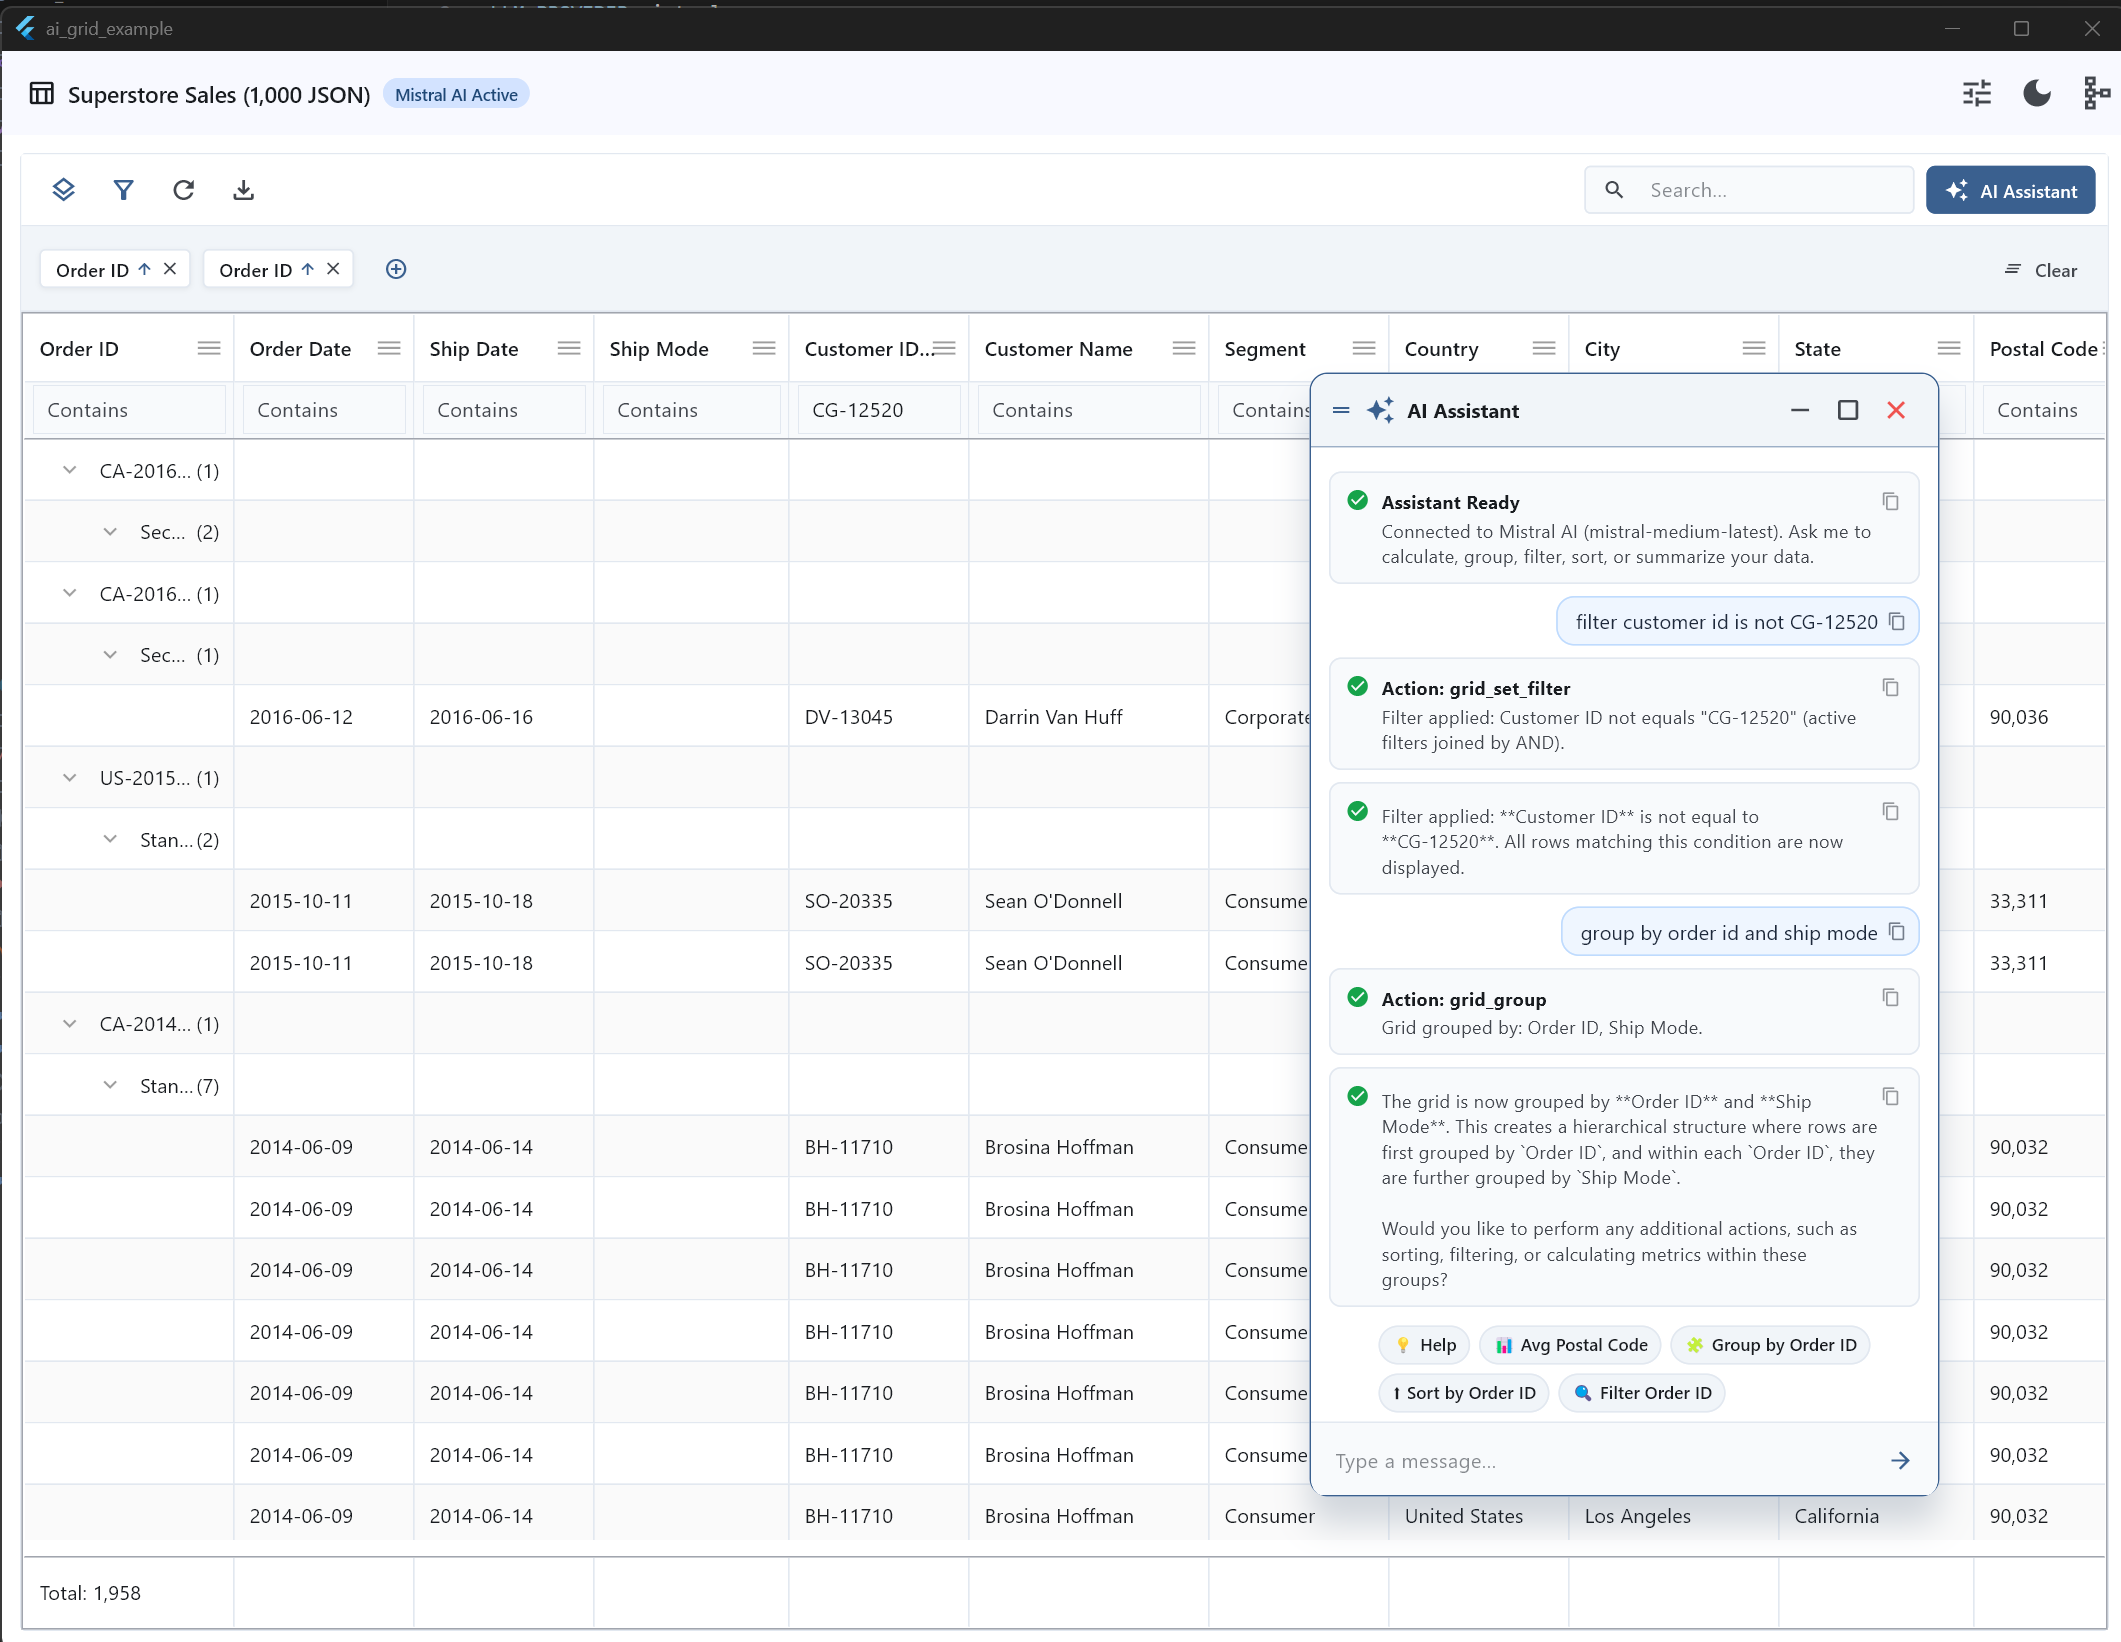
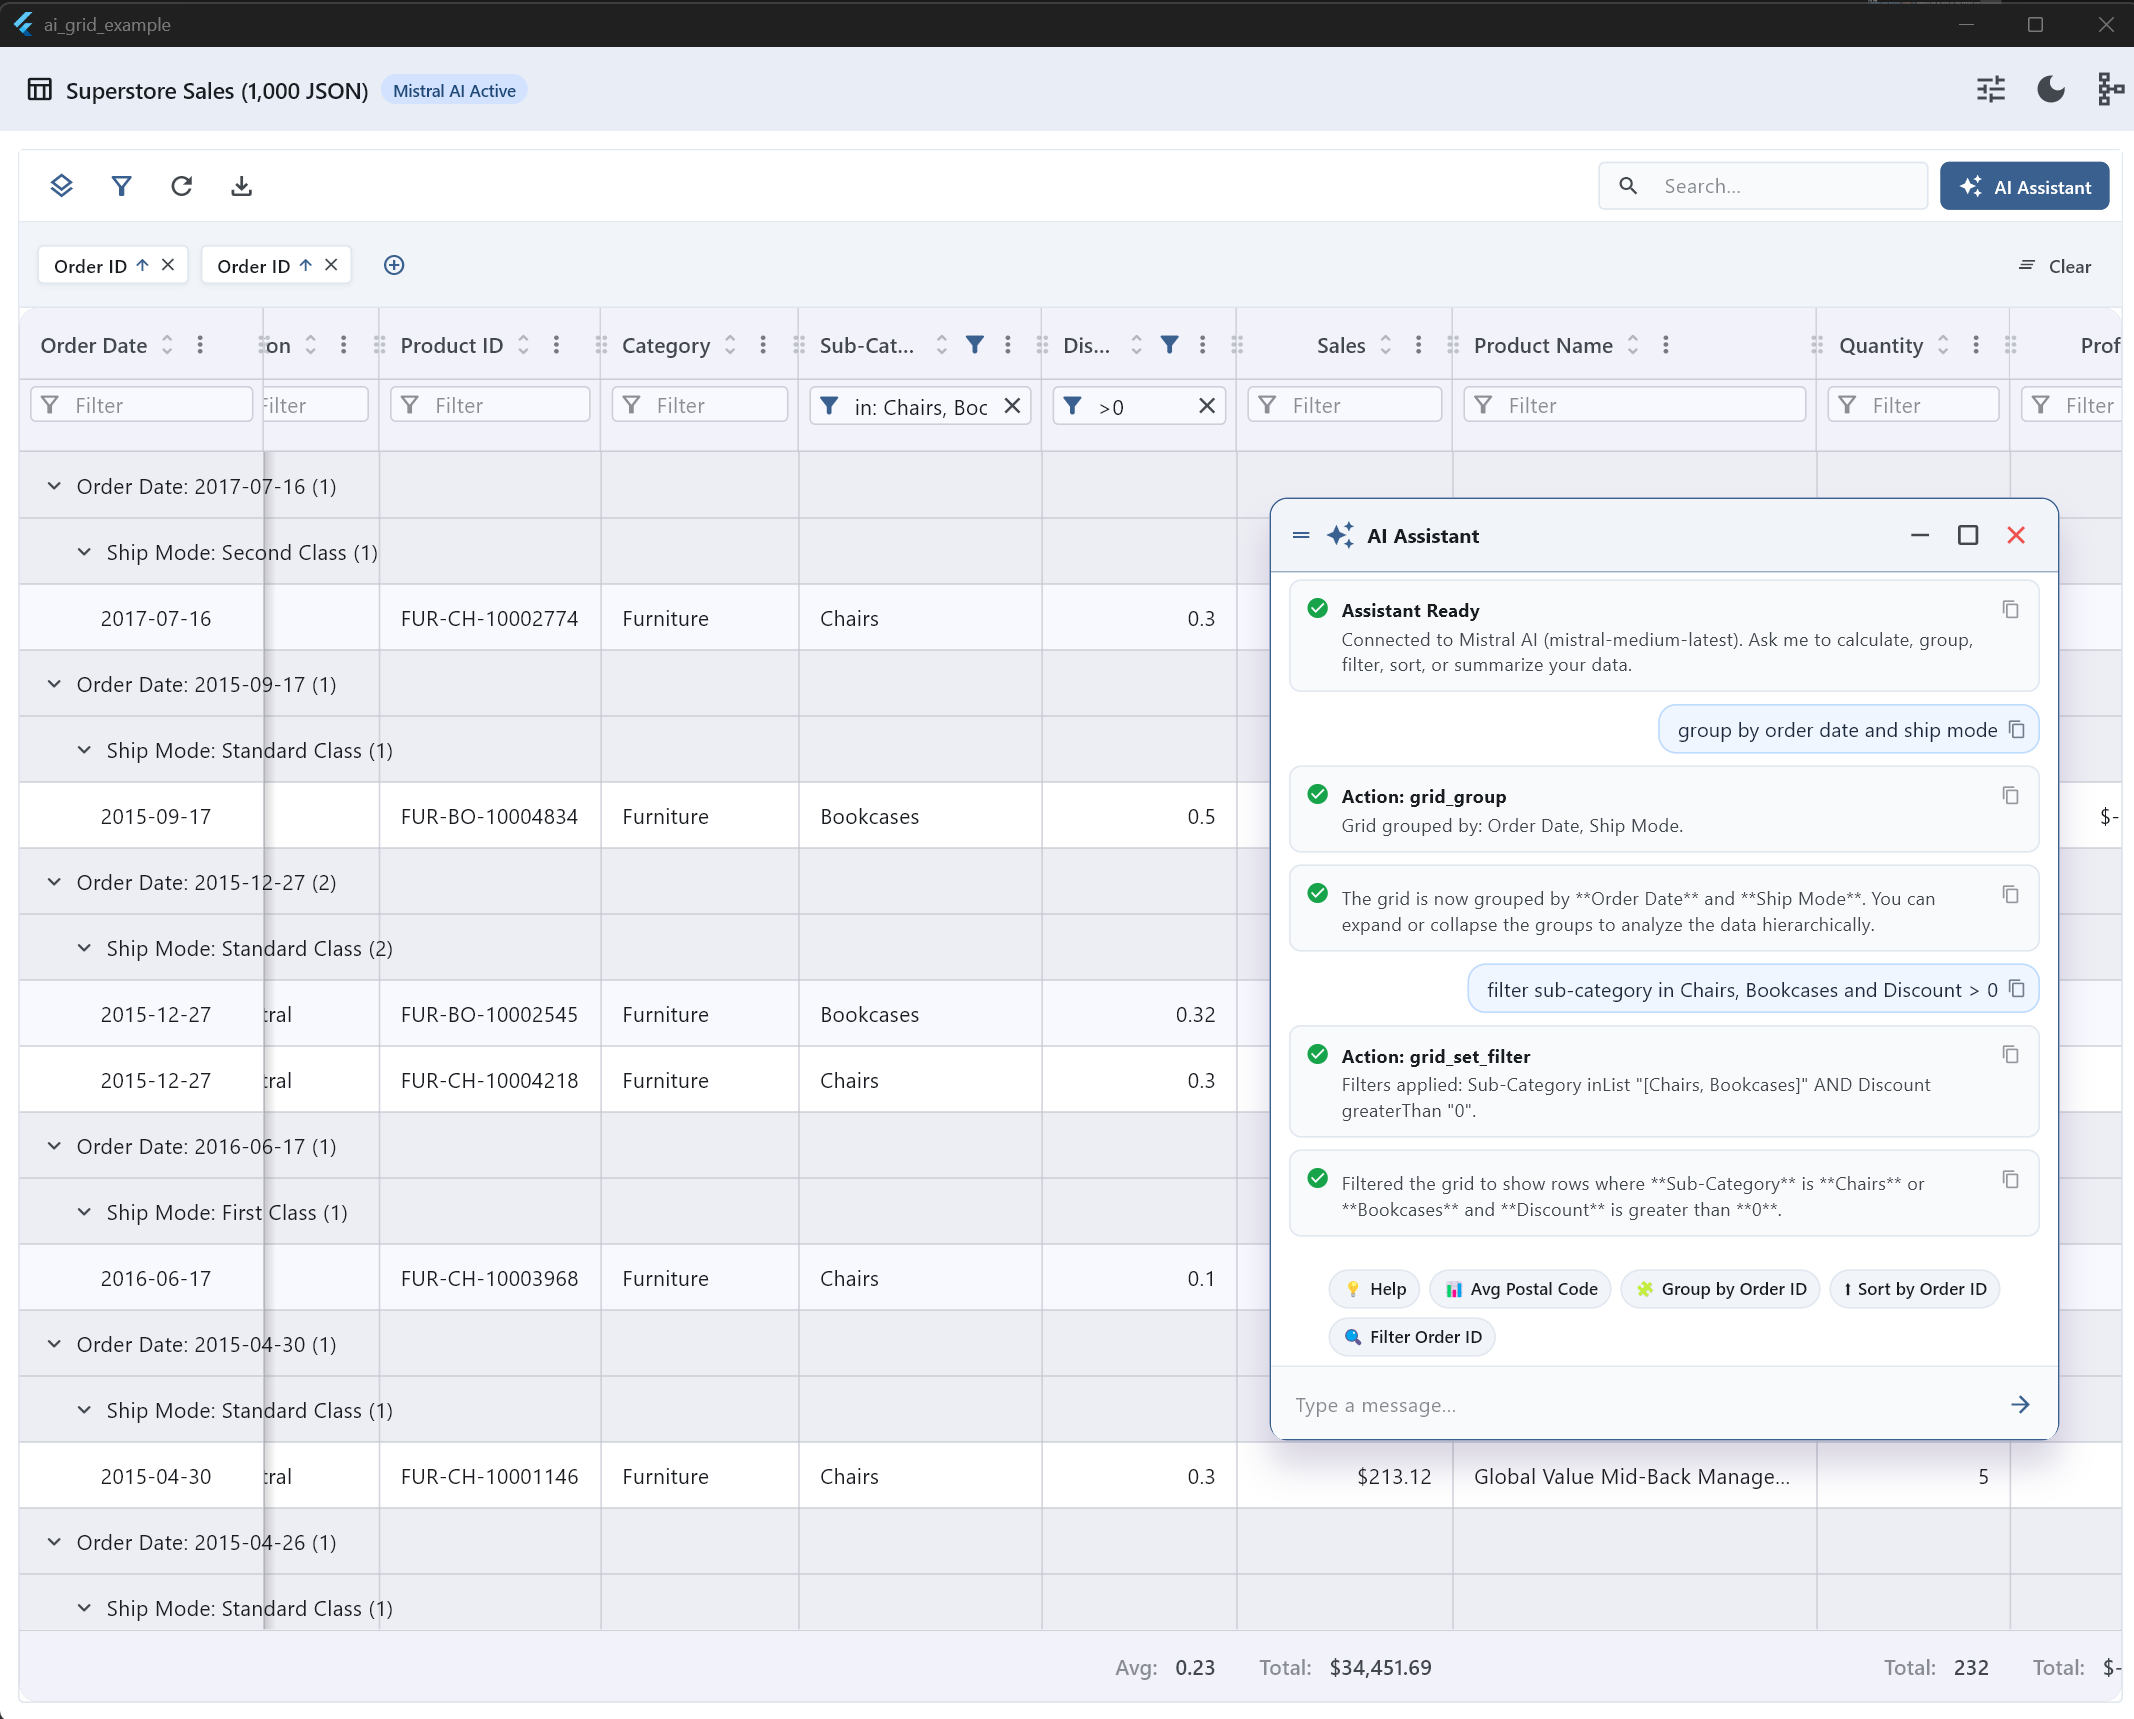
Add ai_grid_example1.gif demo, create .pubignore, and update README.md and repository URLs

diff --git a/README.md b/README.md
@@ -1,6 +1,6 @@
 # AI Grid (`ai_grid`)
 
-[![pub version](https://img.shields.io/badge/pub-v0.0.3-blue.svg)](https://pub.dev/packages/ai_grid)
+[![pub version](https://img.shields.io/badge/pub-v0.1.0-blue.svg)](https://pub.dev/packages/ai_grid)
 [![License: MIT](https://img.shields.io/badge/License-MIT-yellow.svg)](https://opensource.org/licenses/MIT)
 [![Flutter](https://img.shields.io/badge/Flutter-%3E%3D3.24.0-02569B.svg?logo=flutter)](https://flutter.dev)
 [![WASM Ready](https://img.shields.io/badge/WebAssembly-WASM%20Compatible-success.svg)](https://flutter.dev/to/wasm)
@@ -8,6 +8,8 @@
 **AI Grid** is an intelligent, high-performance DataGrid for Flutter that bridges enterprise tabular virtualization with native AI assistant controls and Model Context Protocol (MCP) tool execution.
 
 ![AI Grid Showcase](example_1.png)
+
+![AI Grid Live Demo](https://raw.githubusercontent.com/lschaffer/ai_grid/main/ai_grid_example1.gif)
 
 * **Grid Engine**: Powered by **[fitgrid_table](https://pub.dev/packages/fitgrid_table)** — measuring your content instead of guessing widths, painting cells via direct canvas rendering (~3ms frame times on 1M rows), sticky hierarchical row grouping, isolate multi-sort, and summary footers.
 * **AI Agent & Tool Orchestration**: Powered by **[dart_mcp_core](https://pub.dev/packages/dart_mcp_core)** — exposing structured MCP local tools for real-time schema introspection, precise in-engine math calculations, multi-column filtering, and natural language table operations.
